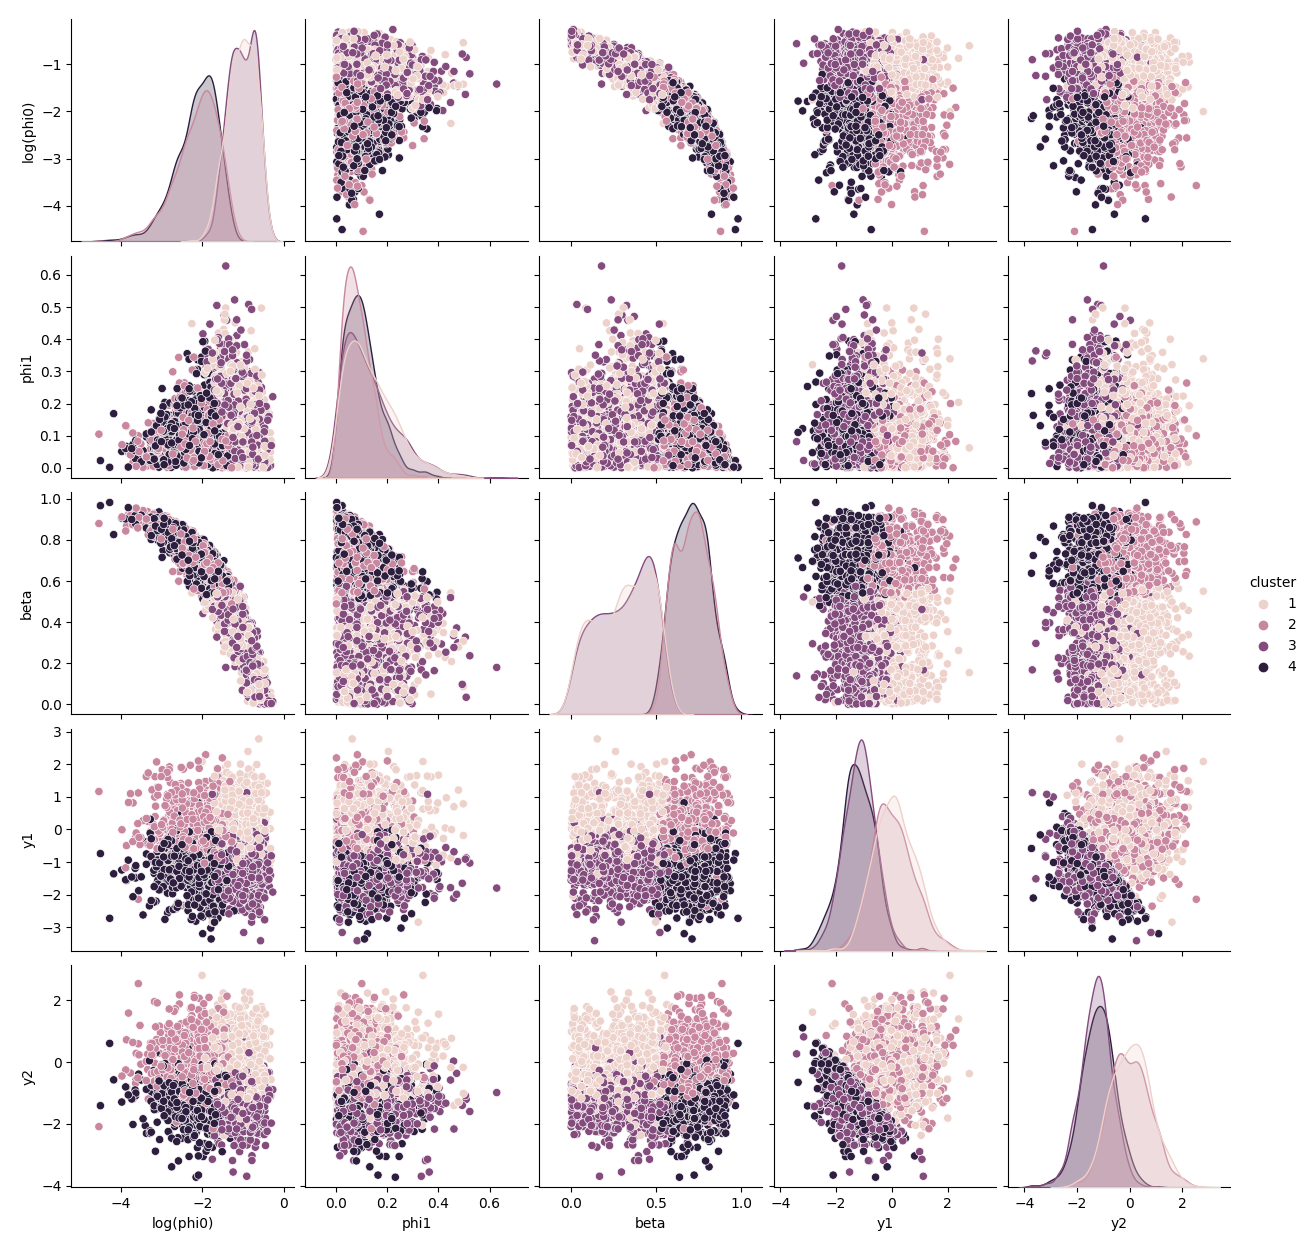
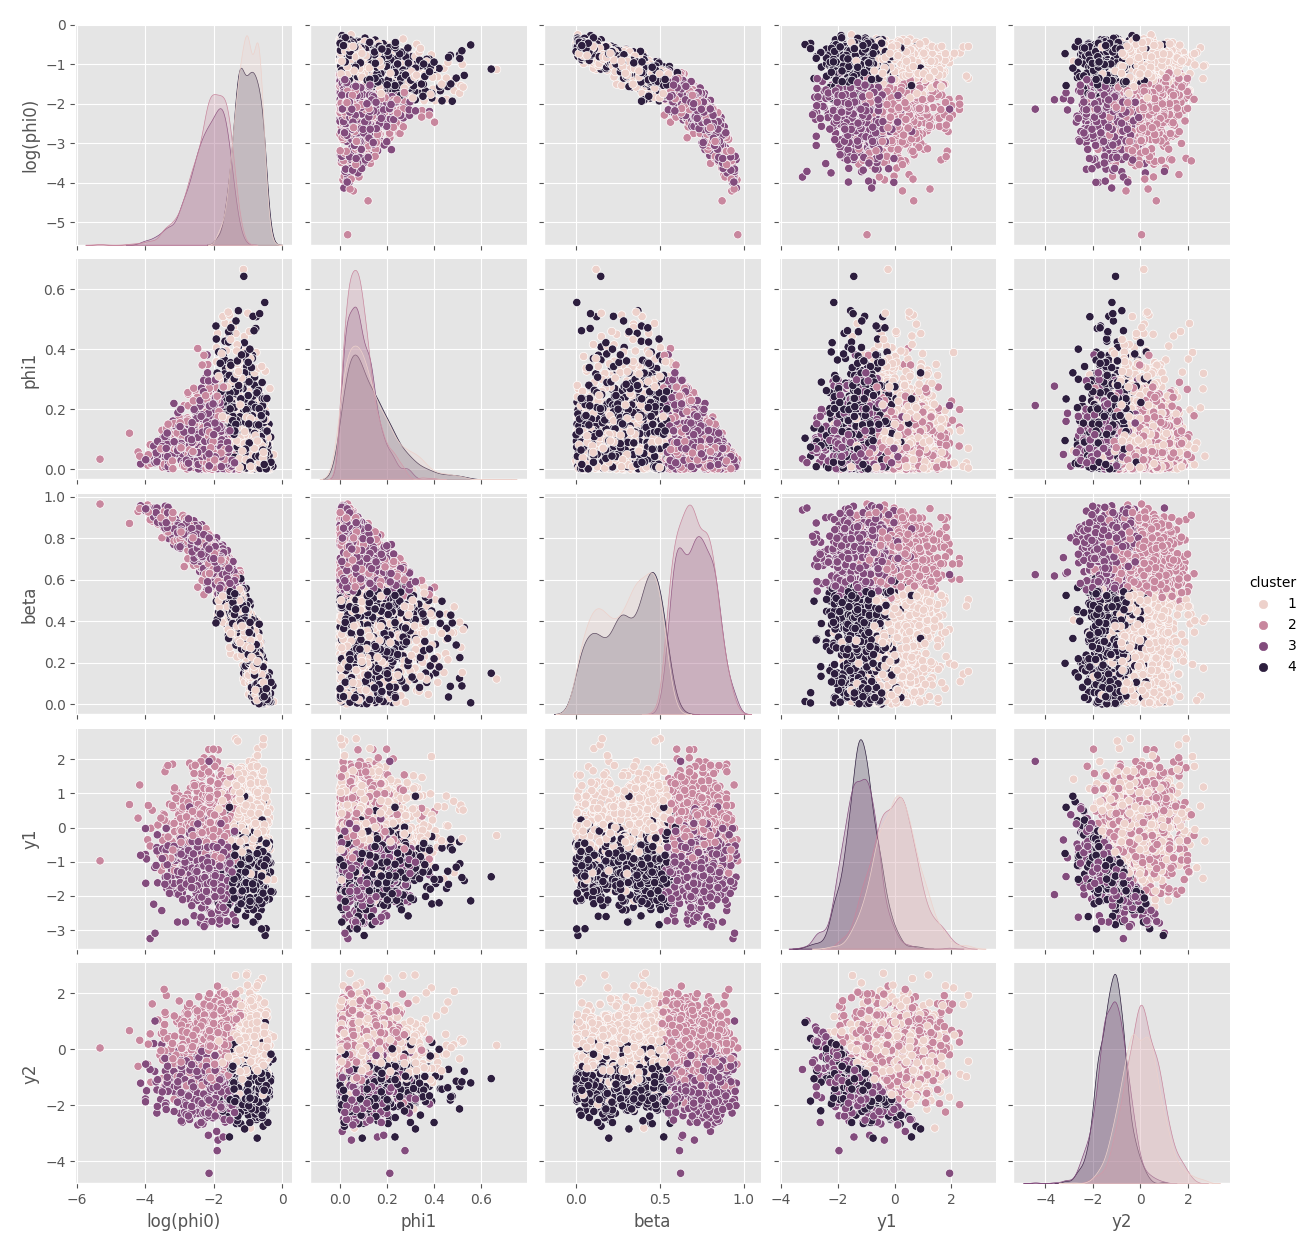
nb

diff --git a/niscv/experiments/garch (E).py b/niscv/experiments/garch (E).py
@@ -20,6 +20,7 @@ def draw(self):
     df = pd.DataFrame(self.centers, columns=['log(phi0)', 'phi1', 'beta'] +
                                             ['y{}'.format(i + 1) for i in range(self.centers.shape[1] - 3)])
     df['cluster'] = self.kde.labels + 1
+    plt.style.use('ggplot')
     sb.pairplot(df, hue='cluster')
     plt.show()
 

diff --git a/niscv/experiments/garch 2 (E).py b/niscv/experiments/garch 2 (E).py
@@ -20,6 +20,7 @@ def draw(self):
     df = pd.DataFrame(self.centers, columns=['log(phi0)', 'phi1', 'beta'] +
                                             ['y{}'.format(i + 1) for i in range(self.centers.shape[1] - 3)])
     df['cluster'] = self.kde.labels + 1
+    plt.style.use('ggplot')
     sb.pairplot(df, hue='cluster')
     plt.show()
 
